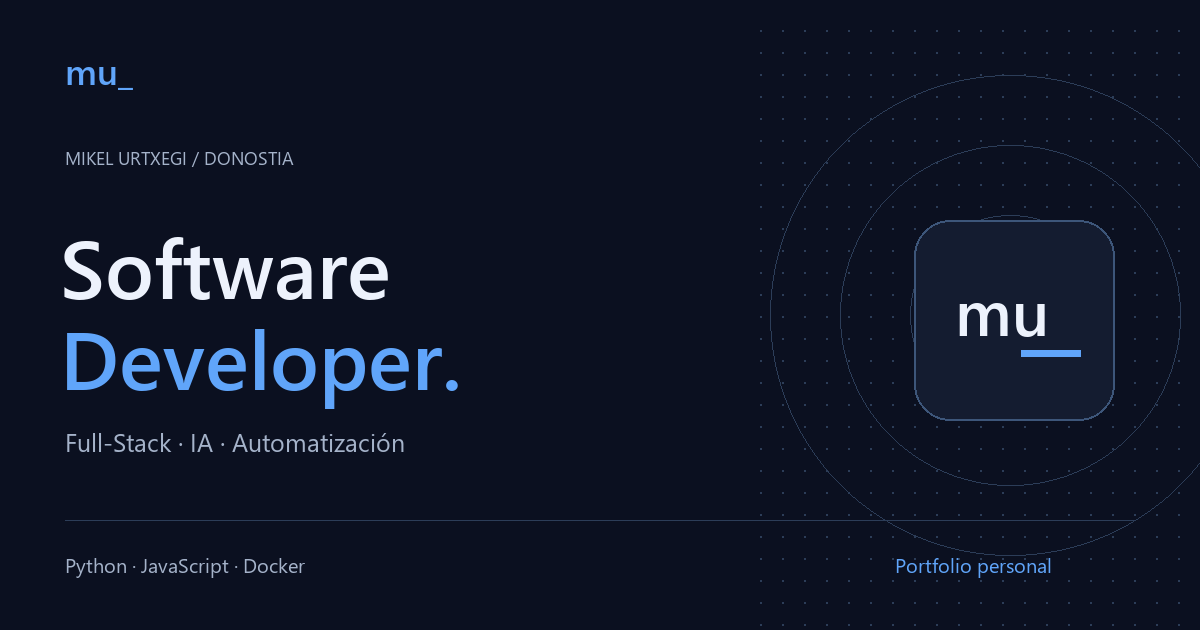
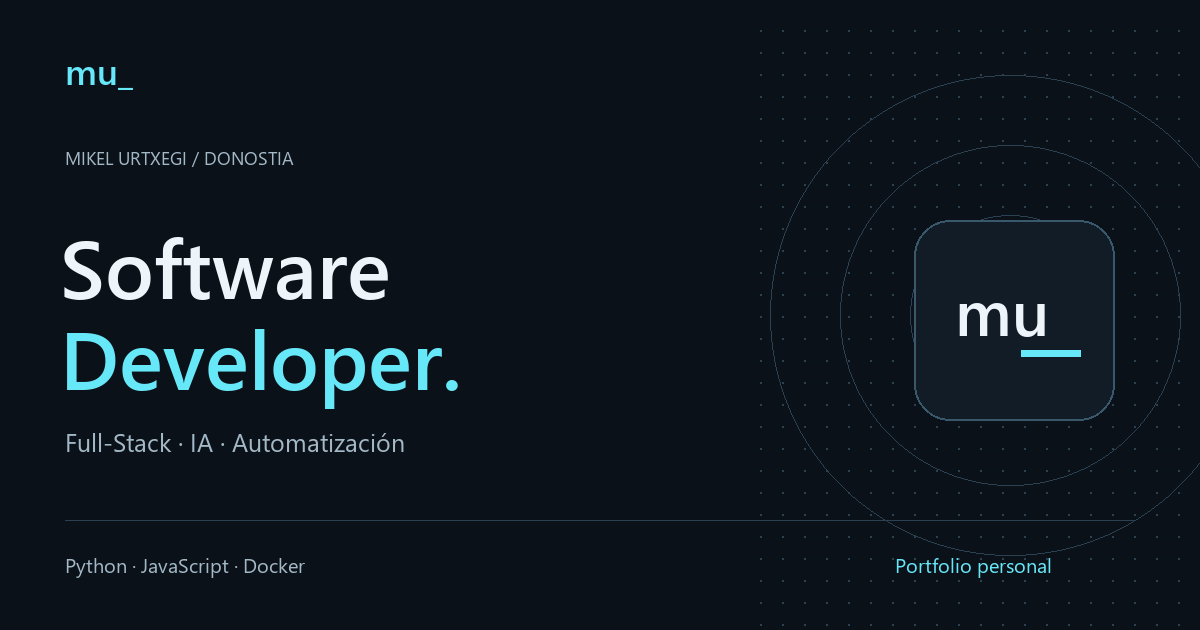
Apply glacial cyan palette across portfolio themes and assets

diff --git a/src/styles.css b/src/styles.css
@@ -25,35 +25,35 @@
 
 :root {
   font-family: "DM Sans Variable", sans-serif;
-  color: #edf2fc;
-  background: #0b1020;
+  color: #edf5fa;
+  background: #0b1118;
   line-height: 1.5;
   font-synthesis: none;
   text-rendering: optimizeLegibility;
   -webkit-font-smoothing: antialiased;
-  --bg: #0b1020;
-  --surface: #141c30;
-  --raised: #1d2940;
-  --text: #edf2fc;
-  --muted: #a5b3ca;
-  --dim: #91a4bf;
-  --border: #2c3d58;
-  --accent: #60a5fa;
-  --accent-ink: #0b2040;
-  --header: rgba(11, 16, 32, 0.92);
+  --bg: #0b1118;
+  --surface: #121c27;
+  --raised: #1a2936;
+  --text: #edf5fa;
+  --muted: #a4b9c7;
+  --dim: #90a7b8;
+  --border: #2b4050;
+  --accent: #67e8f9;
+  --accent-ink: #0b2630;
+  --header: rgba(11, 17, 24, 0.92);
   color-scheme: dark;
 }
 :root[data-theme="light"] {
-  --bg: #f3f7fd;
-  --surface: #e8eff9;
-  --raised: #dce7f5;
-  --text: #172d4e;
-  --muted: #4d6280;
-  --dim: #506582;
-  --border: #c8d6e9;
-  --accent: #2255a4;
+  --bg: #f2f9fc;
+  --surface: #e7f1f6;
+  --raised: #dbe8f0;
+  --text: #16303f;
+  --muted: #4d6676;
+  --dim: #4f6879;
+  --border: #c7dbe5;
+  --accent: #0e6279;
   --accent-ink: #fff;
-  --header: rgba(243, 247, 253, 0.94);
+  --header: rgba(242, 249, 252, 0.94);
   color-scheme: light;
   color: var(--text);
   background: var(--bg);
@@ -454,22 +454,22 @@ ul {
 .build-card {
   width: 390px;
   max-width: 88%;
-  background: #15213b;
-  border: 1px solid #3d567a;
+  background: #122330;
+  border: 1px solid #3a586b;
   border-radius: 10px;
   box-shadow: 0 24px 65px #0005;
   transform: rotate(-4deg);
-  color: #e0ebfa;
+  color: #dfedf5;
   animation: enter-card 0.8s ease-out both;
 }
 .build-card-top {
   display: flex;
   justify-content: space-between;
   align-items: center;
-  border-bottom: 1px solid #2b4164;
+  border-bottom: 1px solid #294454;
   padding: 15px 18px;
   font-size: 10px;
-  color: #b0c2dc;
+  color: #adc7d6;
 }
 .build-card-top > span:first-child {
   display: flex;
@@ -478,11 +478,11 @@ ul {
 .build-card-top > span:first-child > span {
   height: 6px;
   width: 6px;
-  background: #415d83;
+  background: #405f70;
   border-radius: 50%;
 }
 .build-card-top > span:first-child > span:first-child {
-  background: #81b1ec;
+  background: #89ccd9;
 }
 .build-card-content {
   padding: 25px 22px 29px;
@@ -490,14 +490,14 @@ ul {
   line-height: 2.4;
 }
 .code-comment {
-  color: #a6bbd8;
+  color: #a5c0d0;
   font-size: 9px;
 }
 .code-purple {
-  color: #9cc7ff;
+  color: #a5dcec;
 }
 .code-string {
-  color: #60a5fa;
+  color: #67e8f9;
 }
 .code-spacer {
   height: 11px;
@@ -506,16 +506,16 @@ ul {
   width: 6px;
   height: 12px;
   display: inline-block;
-  background: #60a5fa;
+  background: #67e8f9;
   vertical-align: middle;
   margin-left: 6px;
 }
 .build-card-footer {
   display: flex;
   justify-content: space-between;
-  border-top: 1px solid #2b4164;
+  border-top: 1px solid #294454;
   padding: 12px 18px;
-  color: #adc2df;
+  color: #abc7d7;
   font-size: 9px;
 }
 .build-card-footer > span {
@@ -524,7 +524,7 @@ ul {
   gap: 6px;
 }
 .build-card .status-dot {
-  background: #60a5fa;
+  background: #67e8f9;
 }
 .shipping-label {
   position: absolute;
@@ -768,7 +768,7 @@ ul {
 .featured-media {
   display: flex;
   flex-direction: column;
-  background: #172b46;
+  background: #142a38;
   border-left: 1px solid var(--border);
   overflow: hidden;
 }
@@ -776,7 +776,7 @@ ul {
   display: flex;
   justify-content: space-between;
   align-items: center;
-  color: #bed4f0;
+  color: #bbdce8;
   padding: 20px 24px;
   border-bottom: 1px solid #ffffff0d;
   font-size: 9px;
@@ -788,7 +788,7 @@ ul {
   gap: 7px;
 }
 .media-top .status-dot {
-  background: #60a5fa;
+  background: #67e8f9;
 }
 .media-top a {
   padding: 5px;
@@ -813,7 +813,7 @@ ul {
   max-width: none;
   width: 690px;
   height: auto;
-  border: 5px solid #345575;
+  border: 5px solid #345768;
   border-radius: 9px;
   box-shadow: 0 22px 60px #0007;
   transform: perspective(1400px) rotateY(-9deg) rotateZ(2deg);
@@ -826,7 +826,7 @@ ul {
   gap: 14px;
   padding: 19px 24px;
   font-size: 7px;
-  color: #bcd1ed;
+  color: #b9d8e5;
   border-top: 1px solid #ffffff0d;
 }
 .media-caption > span:last-child {
@@ -860,7 +860,7 @@ ul {
   overflow: hidden;
   border-bottom: 1px solid var(--border);
   padding: 22px 26px;
-  color: #c3d9f5;
+  color: #c1dfeb;
 }
 .art-label,
 .concept-label {
@@ -881,7 +881,7 @@ ul {
   letter-spacing: 0.6px;
 }
 .art-kitchen {
-  background: #1e2c49;
+  background: #1c3040;
 }
 .recipe-art {
   position: absolute;
@@ -928,8 +928,8 @@ ul {
   top: 105%;
 }
 .art-layers {
-  background: #1b3041;
-  color: #bfd9eb;
+  background: #1c3038;
+  color: #bedde3;
 }
 .layers-art {
   position: absolute;
@@ -942,8 +942,8 @@ ul {
   display: flex;
   align-items: center;
   gap: 20px;
-  border: 1px solid #83acd04d;
-  background: #254358;
+  border: 1px solid #83b5c24d;
+  background: #27434b;
   box-shadow: 0 6px 12px #0003;
   border-radius: 5px;
   padding: 13px 18px;
@@ -955,8 +955,8 @@ ul {
   flex: 1;
 }
 .art-wood {
-  background: #243247;
-  color: #c3d4ed;
+  background: #243440;
+  color: #c4dce7;
 }
 .wood-art {
   display: flex;
@@ -985,8 +985,8 @@ ul {
     ellipse at 90% 0,
     transparent,
     transparent 17px,
-    #94b9e20c 18px,
-    #94b9e20c 19px,
+    #95c6d80c 18px,
+    #95c6d80c 19px,
     transparent 20px
   );
   transform: rotate(-20deg);
@@ -2275,8 +2275,8 @@ ul {
 }
 
 .art-bike {
-  background: #1d334a;
-  color: #adcff3;
+  background: #1b3440;
+  color: #abdce9;
   background-image: repeating-linear-gradient(
     150deg,
     transparent,

diff --git a/index.html b/index.html
@@ -11,7 +11,7 @@
       name="description"
       content="Portfolio de Mikel Urtxegi, Junior Software Developer en PKF Attest, Donostia. Información sobre mis proyectos, tecnologías, experiencia y formación."
     />
-    <meta name="theme-color" content="#0b1020" />
+    <meta name="theme-color" content="#0b1118" />
     <meta name="author" content="Mikel Urtxegi García" />
     <link rel="canonical" href="__SITE_URL__" />
     <meta property="og:type" content="website" />
